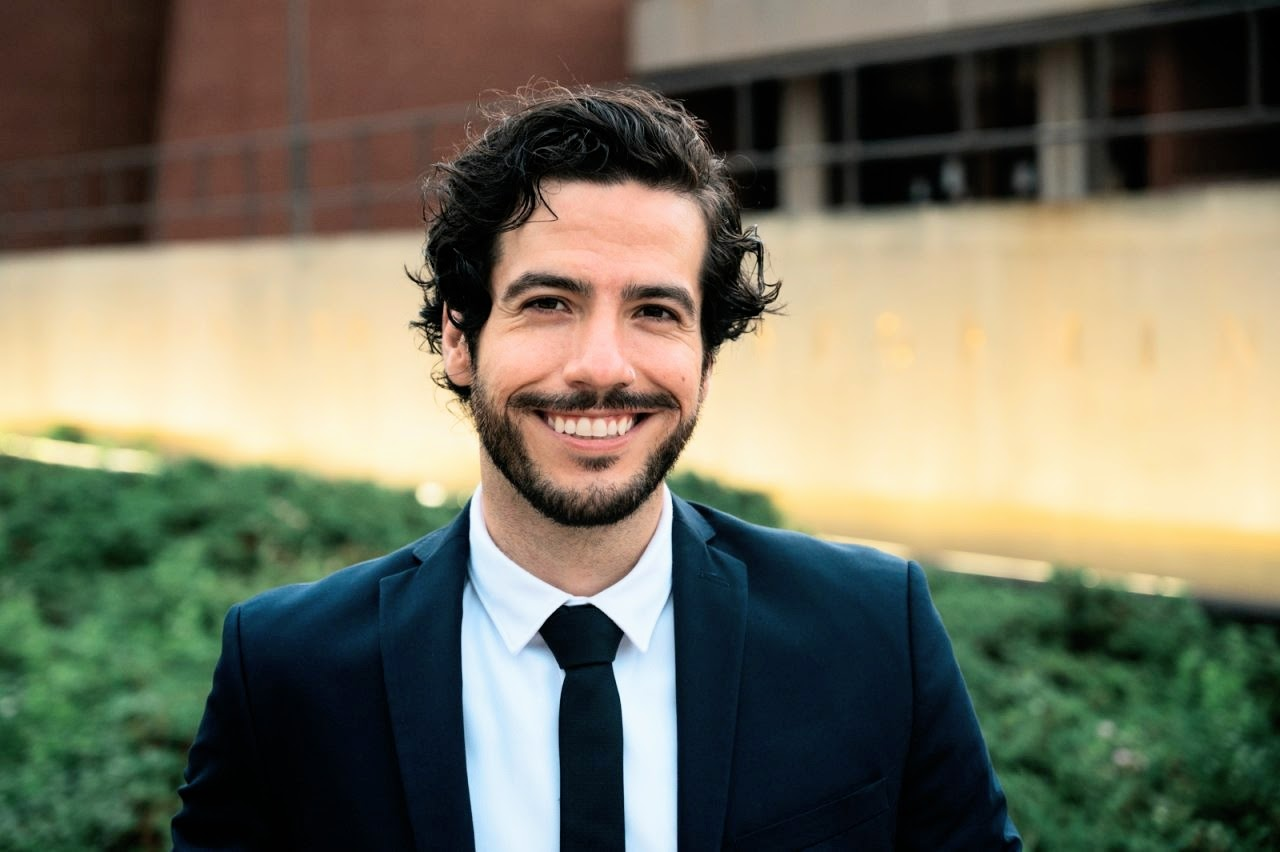
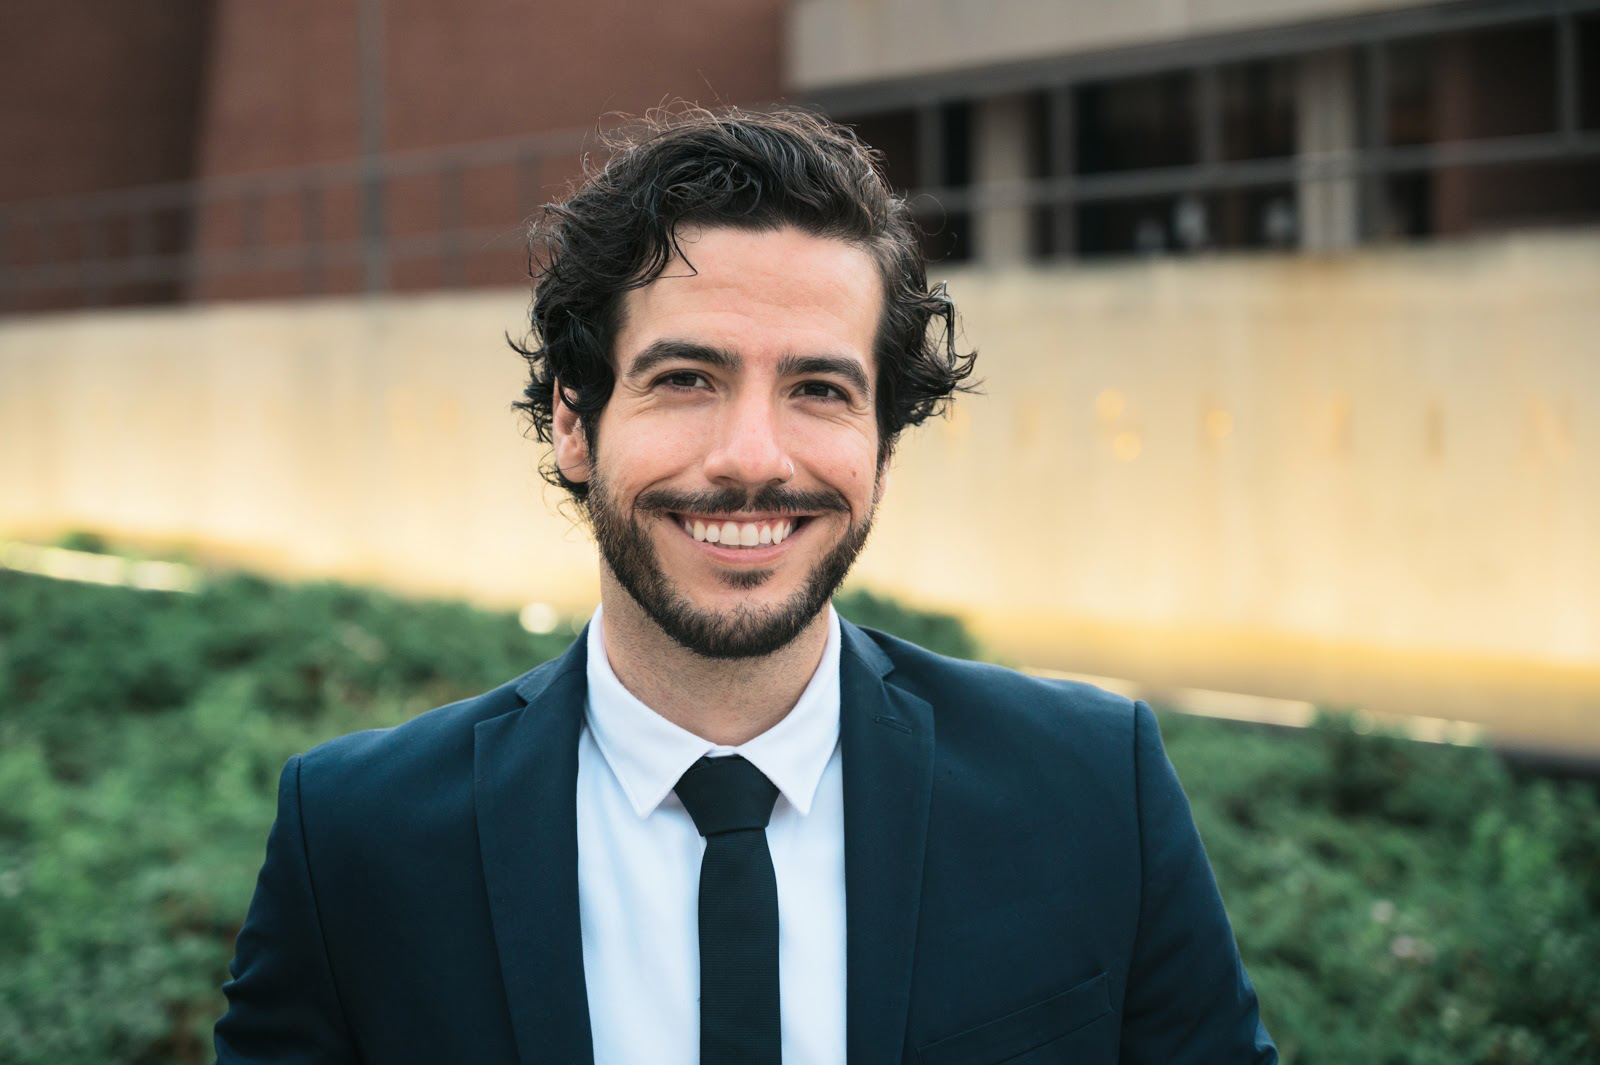
profile pic resize

diff --git a/_includes/head.html b/_includes/head.html
@@ -6,7 +6,7 @@
 	<!-- favicon
 	<link rel="shortcut icon" href="/img/ico/favicon.png">
 	-->
-	<title>{{ page.title }} | Mauricio Olivares-Gonzalez | PhD Student in Economics </title>		
+	<title>{{ page.title }} | Mauricio Olivares | PhD Student in Economics </title>		
 	<!-- styles -->
 	<link href="/css/bootstrap.css" rel="stylesheet">
 	<link href="/css/jumbotron-narrow.css" rel="stylesheet">

diff --git a/_includes/header.html b/_includes/header.html
@@ -7,6 +7,6 @@
 		<!-- <li class="{{ page.notes }}"><a href="/notes" title="Notes">Notes</a></li> -->
 		<li class="{{ page.jaeja }}"><a href="/jaeja" title="Jaeja">J&#230;ja</a></li>
 	</ul>
-	<h3 class="text-muted"><a href="/">Mauricio Olivares-González</a></h3>
+	<h3 class="text-muted"><a href="/">Mauricio Olivares</a></h3>
 </div> <!-- /header -->
 

diff --git a/_includes/footer.html b/_includes/footer.html
@@ -2,7 +2,7 @@
 <div class="footer">
 	<div class="row">
 	<div class="col-sm-8">
-	<p><small> Mauricio Olivares-González</small></p>
+	<p><small> Mauricio Olivares</small></p>
 	</div>
 	<div class="col-sm-4">
 	<p class="pull-right"><small><a href="/contact" title="About this site">About this site</a></small></p>

diff --git a/css/bootstrap.css b/css/bootstrap.css
@@ -368,6 +368,8 @@ img {
 }
 
 .img-circle {
+  width: 80%;
+  height: 80%;
   border-radius: 50%;
 }
 
